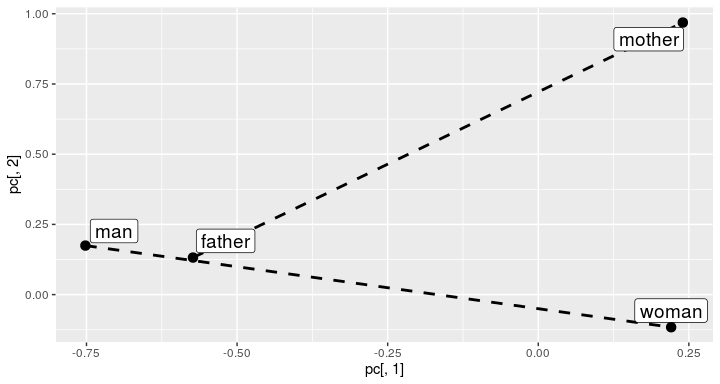
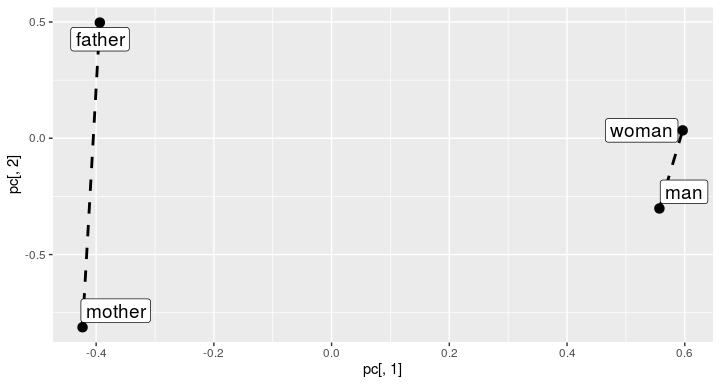
changed label size in visualize_icd10, changed url to github and added url the paper

diff --git a/README.md b/README.md
@@ -22,7 +22,7 @@ Installation & Dependences
 To install `memr`, simply type in an R console (after having installed the `devtools` package, e.g. `install.package('devtools')`):
 
 ``` r
-devtools::install_git("https://github.com/adamgdobrakowski/memr")
+devtools::install_git("https://github.com/MI2DataLab/memr")
 ```
 
 Usage
@@ -140,53 +140,53 @@ knitr::kable(terms_categories)
 Firstly we can compute embeddings:
 
 ``` r
-embedding_size <- 3
+embedding_size <- 5
 
 interview_term_vectors <- embed_terms(merged_terms = interviews, embedding_size = embedding_size,
                                        term_count_min = 1L)
-#> INFO [2020-02-08 11:32:48] 2020-02-08 11:32:48 - epoch 1, expected cost 0.1679
-#> INFO [2020-02-08 11:32:48] 2020-02-08 11:32:48 - epoch 2, expected cost 0.1195
-#> INFO [2020-02-08 11:32:48] 2020-02-08 11:32:48 - epoch 3, expected cost 0.0929
-#> INFO [2020-02-08 11:32:48] 2020-02-08 11:32:48 - epoch 4, expected cost 0.0753
-#> INFO [2020-02-08 11:32:48] 2020-02-08 11:32:48 - epoch 5, expected cost 0.0627
-#> INFO [2020-02-08 11:32:48] 2020-02-08 11:32:48 - epoch 6, expected cost 0.0532
-#> INFO [2020-02-08 11:32:48] 2020-02-08 11:32:48 - epoch 7, expected cost 0.0458
-#> INFO [2020-02-08 11:32:48] 2020-02-08 11:32:48 - epoch 8, expected cost 0.0398
-#> INFO [2020-02-08 11:32:48] 2020-02-08 11:32:48 - epoch 9, expected cost 0.0350
-#> INFO [2020-02-08 11:32:48] 2020-02-08 11:32:48 - epoch 10, expected cost 0.0309
-#> INFO [2020-02-08 11:32:48] 2020-02-08 11:32:48 - epoch 11, expected cost 0.0275
-#> INFO [2020-02-08 11:32:48] 2020-02-08 11:32:48 - epoch 12, expected cost 0.0246
-#> INFO [2020-02-08 11:32:48] 2020-02-08 11:32:48 - epoch 13, expected cost 0.0221
-#> INFO [2020-02-08 11:32:48] 2020-02-08 11:32:48 - epoch 14, expected cost 0.0199
-#> INFO [2020-02-08 11:32:48] 2020-02-08 11:32:48 - epoch 15, expected cost 0.0179
+#> INFO [2020-03-18 11:26:24] 2020-03-18 11:26:24 - epoch 1, expected cost 0.1305
+#> INFO [2020-03-18 11:26:24] 2020-03-18 11:26:24 - epoch 2, expected cost 0.0852
+#> INFO [2020-03-18 11:26:24] 2020-03-18 11:26:24 - epoch 3, expected cost 0.0592
+#> INFO [2020-03-18 11:26:24] 2020-03-18 11:26:24 - epoch 4, expected cost 0.0426
+#> INFO [2020-03-18 11:26:24] 2020-03-18 11:26:24 - epoch 5, expected cost 0.0314
+#> INFO [2020-03-18 11:26:24] 2020-03-18 11:26:24 - epoch 6, expected cost 0.0235
+#> INFO [2020-03-18 11:26:24] 2020-03-18 11:26:24 - epoch 7, expected cost 0.0180
+#> INFO [2020-03-18 11:26:24] 2020-03-18 11:26:24 - epoch 8, expected cost 0.0139
+#> INFO [2020-03-18 11:26:24] 2020-03-18 11:26:24 - epoch 9, expected cost 0.0109
+#> INFO [2020-03-18 11:26:24] 2020-03-18 11:26:24 - epoch 10, expected cost 0.0087
+#> INFO [2020-03-18 11:26:24] 2020-03-18 11:26:24 - epoch 11, expected cost 0.0070
+#> INFO [2020-03-18 11:26:24] 2020-03-18 11:26:24 - epoch 12, expected cost 0.0057
+#> INFO [2020-03-18 11:26:24] 2020-03-18 11:26:24 - epoch 13, expected cost 0.0047
+#> INFO [2020-03-18 11:26:24] 2020-03-18 11:26:24 - epoch 14, expected cost 0.0039
+#> INFO [2020-03-18 11:26:24] 2020-03-18 11:26:24 - epoch 15, expected cost 0.0033
 examination_term_vectors <- embed_terms(merged_terms = examinations, embedding_size = embedding_size,
                                          term_count_min = 1L)
-#> INFO [2020-02-08 11:32:48] 2020-02-08 11:32:48 - epoch 1, expected cost 0.0596
-#> INFO [2020-02-08 11:32:48] 2020-02-08 11:32:48 - epoch 2, expected cost 0.0338
-#> INFO [2020-02-08 11:32:48] 2020-02-08 11:32:48 - epoch 3, expected cost 0.0242
-#> INFO [2020-02-08 11:32:48] 2020-02-08 11:32:48 - epoch 4, expected cost 0.0194
-#> INFO [2020-02-08 11:32:48] 2020-02-08 11:32:48 - epoch 5, expected cost 0.0165
-#> INFO [2020-02-08 11:32:48] 2020-02-08 11:32:48 - epoch 6, expected cost 0.0147
-#> INFO [2020-02-08 11:32:48] 2020-02-08 11:32:48 - epoch 7, expected cost 0.0133
-#> INFO [2020-02-08 11:32:48] 2020-02-08 11:32:48 - epoch 8, expected cost 0.0123
-#> INFO [2020-02-08 11:32:48] 2020-02-08 11:32:48 - epoch 9, expected cost 0.0115
-#> INFO [2020-02-08 11:32:48] 2020-02-08 11:32:48 - epoch 10, expected cost 0.0108
-#> INFO [2020-02-08 11:32:48] 2020-02-08 11:32:48 - epoch 11, expected cost 0.0102
-#> INFO [2020-02-08 11:32:48] 2020-02-08 11:32:48 - epoch 12, expected cost 0.0097
-#> INFO [2020-02-08 11:32:48] 2020-02-08 11:32:48 - epoch 13, expected cost 0.0093
-#> INFO [2020-02-08 11:32:48] 2020-02-08 11:32:48 - epoch 14, expected cost 0.0089
-#> INFO [2020-02-08 11:32:48] 2020-02-08 11:32:48 - epoch 15, expected cost 0.0086
+#> INFO [2020-03-18 11:26:24] 2020-03-18 11:26:24 - epoch 1, expected cost 0.1059
+#> INFO [2020-03-18 11:26:24] 2020-03-18 11:26:24 - epoch 2, expected cost 0.0510
+#> INFO [2020-03-18 11:26:24] 2020-03-18 11:26:24 - epoch 3, expected cost 0.0315
+#> INFO [2020-03-18 11:26:24] 2020-03-18 11:26:24 - epoch 4, expected cost 0.0225
+#> INFO [2020-03-18 11:26:24] 2020-03-18 11:26:24 - epoch 5, expected cost 0.0178
+#> INFO [2020-03-18 11:26:24] 2020-03-18 11:26:24 - epoch 6, expected cost 0.0149
+#> INFO [2020-03-18 11:26:24] 2020-03-18 11:26:24 - epoch 7, expected cost 0.0131
+#> INFO [2020-03-18 11:26:24] 2020-03-18 11:26:24 - epoch 8, expected cost 0.0117
+#> INFO [2020-03-18 11:26:24] 2020-03-18 11:26:24 - epoch 9, expected cost 0.0107
+#> INFO [2020-03-18 11:26:24] 2020-03-18 11:26:24 - epoch 10, expected cost 0.0099
+#> INFO [2020-03-18 11:26:24] 2020-03-18 11:26:24 - epoch 11, expected cost 0.0093
+#> INFO [2020-03-18 11:26:24] 2020-03-18 11:26:24 - epoch 12, expected cost 0.0087
+#> INFO [2020-03-18 11:26:24] 2020-03-18 11:26:24 - epoch 13, expected cost 0.0082
+#> INFO [2020-03-18 11:26:24] 2020-03-18 11:26:24 - epoch 14, expected cost 0.0078
+#> INFO [2020-03-18 11:26:24] 2020-03-18 11:26:24 - epoch 15, expected cost 0.0074
 
 knitr::kable(interview_term_vectors[1:5, ])
 ```
 
-|          |            |            |            |
-|:---------|-----------:|-----------:|-----------:|
-| rhinitis |  -0.4591842|   0.0773042|   0.3169519|
-| fever    |  -0.3166999|   0.4445915|   0.2889484|
-| eye      |   0.6172635|  -0.0026380|  -0.2859116|
-| cough    |  -0.3053243|   0.1688631|   0.6479924|
-| thyroid  |  -0.2251053|  -0.4781070|  -0.1793006|
+|          |            |            |            |            |            |
+|:---------|-----------:|-----------:|-----------:|-----------:|-----------:|
+| rhinitis |  -0.4704351|   0.0315635|   0.5707754|   0.2680295|   0.2400996|
+| fever    |  -0.3948241|   0.3853350|   0.5458298|   0.2350670|   0.4494087|
+| eye      |   0.4959916|   0.0223423|  -0.3431036|  -0.2673065|  -0.2371423|
+| cough    |  -0.0089209|   0.3737412|   0.0054367|  -0.6043935|   0.4064513|
+| thyroid  |  -0.1455389|  -0.2107478|  -0.2871478|  -0.3121039|  -0.2287994|
 
 Terms from the chosen category can be visualized:
 
@@ -202,12 +202,12 @@ To validate the quality of embeddings we can perform the term analogy task (see 
 knitr::kable(evaluate_term_embeddings(examination_term_vectors, n = 5, terms_pairs_test))
 ```
 
-|         |    1|          2|          3|          4|          5|       MEAN|
-|---------|----:|----------:|----------:|----------:|----------:|----------:|
-| person  |    0|  0.5000000|  1.0000000|  1.0000000|  1.0000000|  0.7000000|
-| spec    |    0|  0.0000000|  0.0000000|  0.0000000|  0.0000000|  0.0000000|
-| synonym |    0|  0.0000000|  0.0000000|  0.0000000|  0.0000000|  0.0000000|
-| MEAN    |    0|  0.1666667|  0.3333333|  0.3333333|  0.3333333|  0.2333333|
+|         |    1|    2|    3|    4|          5|       MEAN|
+|---------|----:|----:|----:|----:|----------:|----------:|
+| person  |    0|    0|    0|    0|  0.5000000|  0.1000000|
+| spec    |    0|    0|    0|    0|  0.0000000|  0.0000000|
+| synonym |    0|    0|    0|    0|  0.5000000|  0.1000000|
+| MEAN    |    0|    0|    0|    0|  0.3333333|  0.0666667|
 
 For each type of analogy we compute the mean accuracy.
 
@@ -228,13 +228,13 @@ visits_vectors <- embed_list_visits(interviews, examinations, interview_term_vec
 knitr::kable(visits_vectors[1:5, ])
 ```
 
-|     |            |            |           |            |            |            |
-|:----|-----------:|-----------:|----------:|-----------:|-----------:|-----------:|
-| 101 |   0.1502818|   0.2209768|  0.0015184|          NA|          NA|          NA|
-| 102 |  -0.2652148|  -0.1546220|  0.2343459|   0.0315736|  -0.1512805|  -0.0030038|
-| 103 |  -0.2709026|  -0.0167577|  0.0548239|  -0.0211255|   0.0591052|   0.0587511|
-| 104 |   0.1502818|   0.2209768|  0.0015184|   0.0436967|   0.0468291|  -0.0488440|
-| 105 |  -0.2652148|  -0.1546220|  0.2343459|  -0.0186915|  -0.1348312|   0.0672795|
+|     |            |           |            |            |           |           |            |            |            |            |
+|:----|-----------:|----------:|-----------:|-----------:|----------:|----------:|-----------:|-----------:|-----------:|-----------:|
+| 101 |   0.0505837|  0.2038387|   0.1013631|  -0.0161198|  0.1061332|         NA|          NA|          NA|          NA|          NA|
+| 102 |  -0.0772299|  0.0814967|  -0.1408555|  -0.4582487|  0.0888259|  0.1106313|  -0.1679365|  -0.0600053|   0.1011591|   0.0932502|
+| 103 |  -0.2701815|  0.0872936|   0.1293410|  -0.0385184|  0.1103047|  0.1915759|   0.1393210|  -0.0021371|   0.0500974|   0.1605039|
+| 104 |   0.0505837|  0.2038387|   0.1013631|  -0.0161198|  0.1061332|  0.1695910|   0.1284853|   0.0011363|  -0.0126280|  -0.0033302|
+| 105 |  -0.0772299|  0.0814967|  -0.1408555|  -0.4582487|  0.0888259|  0.0037491|  -0.0883031|  -0.0408950|   0.1075936|   0.0625818|
 
 And now we can visualize the visits on the plot and color by the doctors' IDs:
 
@@ -277,30 +277,23 @@ For every cluster we can see the most frequent recommendations from chosen categ
 rec_tables <- get_cluster_recommendations(recommendations, clusters,
                                           category = "recommendation",
                                           recom_table = terms_categories)
-knitr::kable(rec_tables)
+rec_tables
+#> [[1]]
+#> # A tibble: 3 x 3
+#>   recommendation count frequency
+#>   <fct>          <int>     <dbl>
+#> 1 hospital           3      0.75
+#> 2 sleep              1      0.25
+#> 3 treatment          1      0.25
+#> 
+#> [[2]]
+#> # A tibble: 2 x 3
+#>   recommendation count frequency
+#>   <fct>          <int>     <dbl>
+#> 1 hospital           1         1
+#> 2 treatment          1         1
 ```
 
-<table class="kable_wrapper">
-<tbody>
-<tr>
-<td>
-| recommendation |  count|  frequency|
-|:---------------|------:|----------:|
-| hospital       |      2|  0.6666667|
-| sleep          |      1|  0.3333333|
-| treatment      |      1|  0.3333333|
-
-</td>
-<td>
-| recommendation |  count|  frequency|
-|:---------------|------:|----------:|
-| hospital       |      2|        1.0|
-| treatment      |      1|        0.5|
-
-</td>
-</tr>
-</tbody>
-</table>
 or from all categories:
 
 ``` r
@@ -310,20 +303,19 @@ rec_tables
 #> # A tibble: 5 x 3
 #>   recommendation  count frequency
 #>   <fct>           <int>     <dbl>
-#> 1 hospital            2     0.667
-#> 2 endocrinologist     1     0.333
-#> 3 internist           1     0.333
-#> 4 sleep               1     0.333
-#> 5 treatment           1     0.333
+#> 1 hospital            3      0.75
+#> 2 endocrinologist     2      0.5 
+#> 3 internist           1      0.25
+#> 4 sleep               1      0.25
+#> 5 treatment           1      0.25
 #> 
 #> [[2]]
-#> # A tibble: 4 x 3
+#> # A tibble: 3 x 3
 #>   recommendation  count frequency
 #>   <fct>           <int>     <dbl>
-#> 1 hospital            2       1  
-#> 2 endocrinologist     1       0.5
-#> 3 ophthalmologist     1       0.5
-#> 4 treatment           1       0.5
+#> 1 hospital            1         1
+#> 2 ophthalmologist     1         1
+#> 3 treatment           1         1
 ```
 
 If we have a new visit, we can assign it to the most appropriate cluster:
@@ -336,12 +328,12 @@ names(visit_description) <- c("inter", "exam")
 cl <- assign_visit_to_cluster(visit_description, clusters, interview_term_vectors, examination_term_vectors)
 cl
 #> $cl
-#> 2 
-#> 2 
+#> 1 
+#> 1 
 #> 
 #> $distances
-#>         1         2 
-#> 0.1641233 0.1238790
+#>          1          2 
+#> 0.07533538 0.24136356
 ```
 
 As the last nice thing we can see the embeddings of ICD-10 codes:
@@ -360,4 +352,4 @@ The package was created during the research financially supported by the Polish 
 References
 ==========
 
-Dobrakowski, Adam, Agnieszka Mykowiecka, Małgorzata Marciniak, Wojciech Jaworski, and Przemysław Biecek. 2019. “Interpretable Segmentation of Medical Free-Text Records Based on Word Embeddings.” *arXiv Preprint arXiv:1907.04152*.
+Dobrakowski, Adam, Agnieszka Mykowiecka, Małgorzata Marciniak, Wojciech Jaworski, and Przemysław Biecek. 2019. “Interpretable Segmentation of Medical Free-Text Records Based on Word Embeddings.” *arXiv Preprint arXiv:1907.04152*. <https://arxiv.org/abs/1907.04152>.
